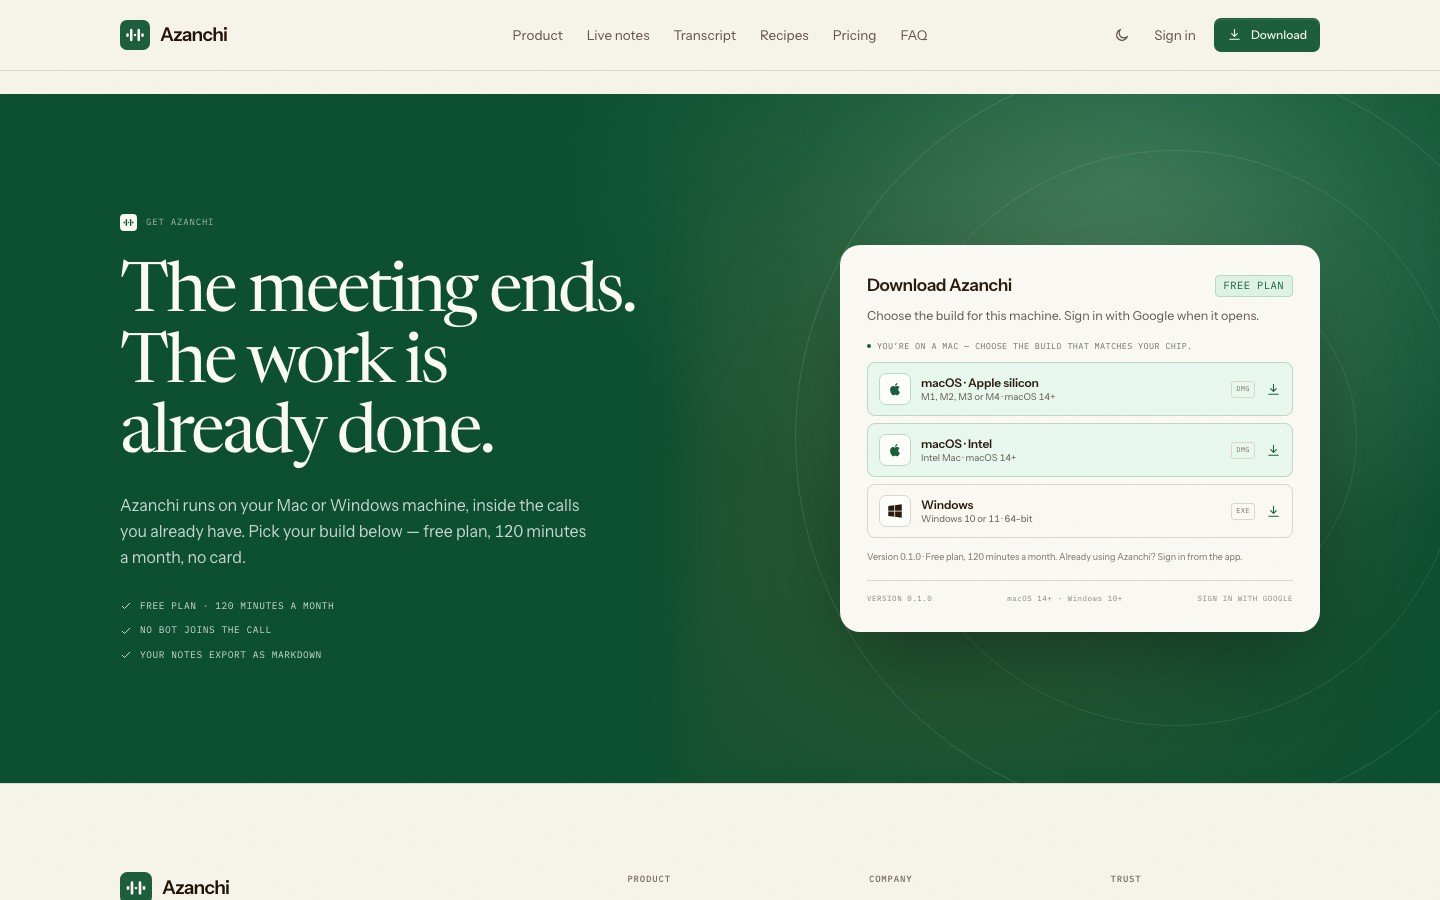
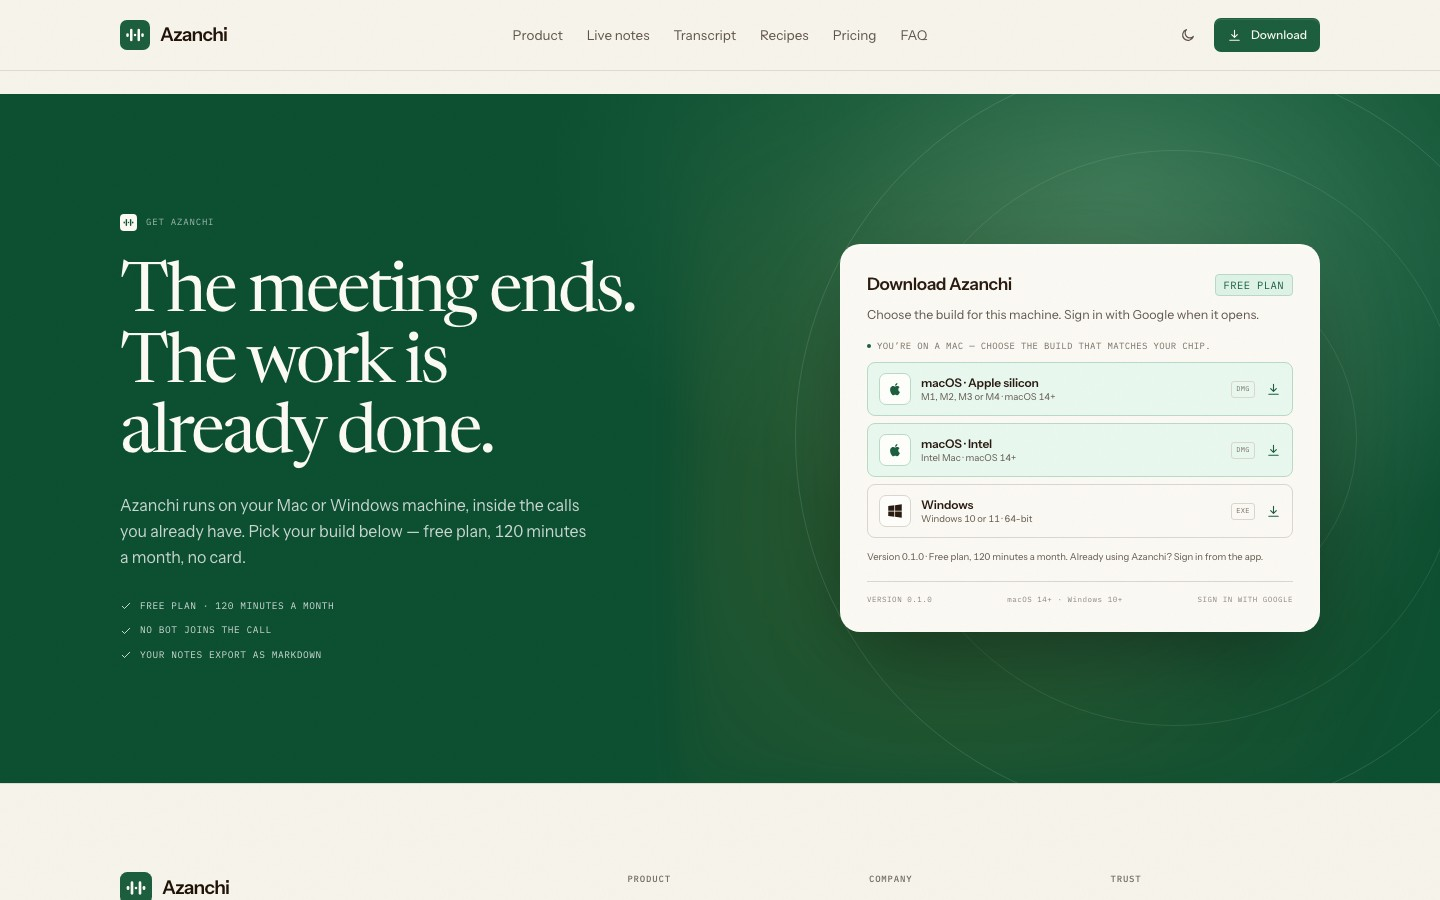
Center recording chip and hide sign-in

Changed region(s): [[0.5938, 0.3111, 0.875, 0.4044], [0.625, 0.5911, 0.875, 0.6222], [0.8125, 0.0311, 0.8438, 0.0622]]

diff --git a/src/styles/responsive.css b/src/styles/responsive.css
@@ -44,6 +44,10 @@
     --nav-h: 64px;
   }
 
+  .hero__stage-wrap {
+    margin-top: 60px;
+  }
+
   .nav__links,
   .nav__signin,
   .nav__cta {
@@ -225,10 +229,15 @@
   }
 
   .hero__chip {
-    top: -20px;
-    right: 8px;
-    transform: scale(0.94);
-    transform-origin: top right;
+    top: -42px;
+    right: auto;
+    left: 50%;
+    transform: translateX(-50%) scale(0.94);
+    transform-origin: top center;
+  }
+
+  .hero__stage-wrap {
+    margin-top: 60px;
   }
 
   .hero__stage-foot {
@@ -290,7 +299,7 @@
   }
 
   .hero__stage-wrap {
-    margin-top: 44px;
+    margin-top: 60px;
   }
 
   .hero__stage-glow {
@@ -522,14 +531,15 @@
   }
 
   .hero__stage-wrap {
-    margin-top: 38px;
+    margin-top: 52px;
   }
 
   .hero__chip {
-    top: -17px;
-    right: 3px;
-    transform: scale(0.82);
-    transform-origin: top right;
+    top: -36px;
+    right: auto;
+    left: 50%;
+    transform: translateX(-50%) scale(0.82);
+    transform-origin: top center;
   }
 
   .rec-chip__title {

diff --git a/src/components/Nav.tsx b/src/components/Nav.tsx
@@ -98,9 +98,8 @@ export function Nav() {
           >
             {theme === "dark" ? <Sun size={16} /> : <Moon size={16} />}
           </button>
-          <a className="nav__signin" href="#download">
-            Sign in
-          </a>
+          {/* Sign in is hidden until the desktop auth flow is wired. */}
+          {/* <a className="nav__signin" href="#download">Sign in</a> */}
           <a className="btn btn--primary btn--sm nav__cta" href="#download">
             <Download size={14} />
             Download

diff --git a/src/styles/landing.css b/src/styles/landing.css
@@ -398,7 +398,7 @@
 
 .hero__stage-wrap {
   position: relative;
-  margin-top: clamp(36px, 4.8vw, 56px);
+  margin-top: clamp(42px, 5.2vw, 62px);
 }
 
 .hero__stage {
@@ -432,9 +432,12 @@
 
 .hero__chip {
   position: absolute;
-  top: -26px;
-  right: -18px;
+  top: -46px;
+  left: 50%;
+  right: auto;
   z-index: 5;
+  transform: translateX(-50%);
+  transform-origin: top center;
 }
 
 .hero__stage-foot {
